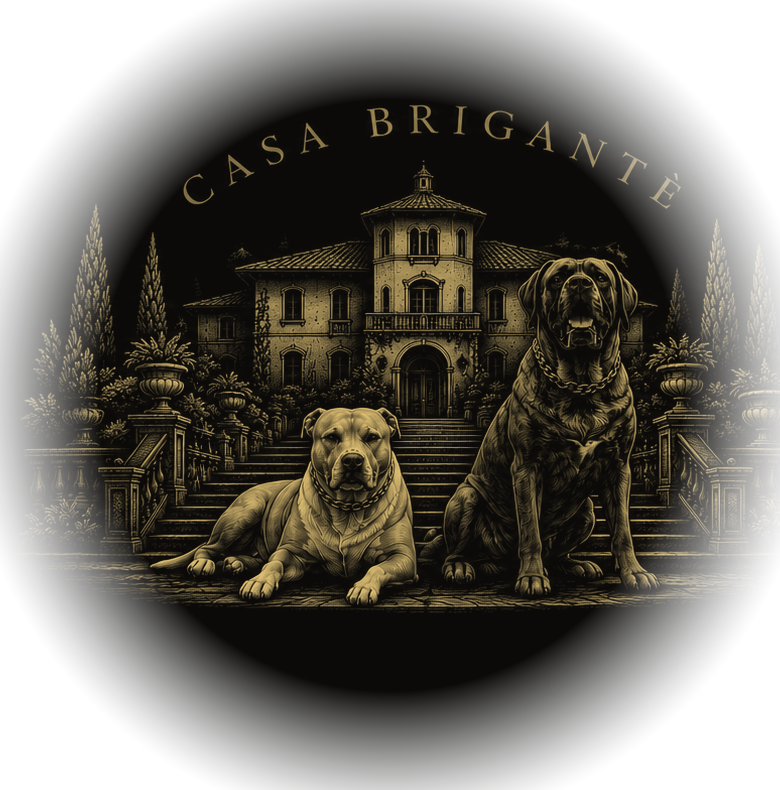
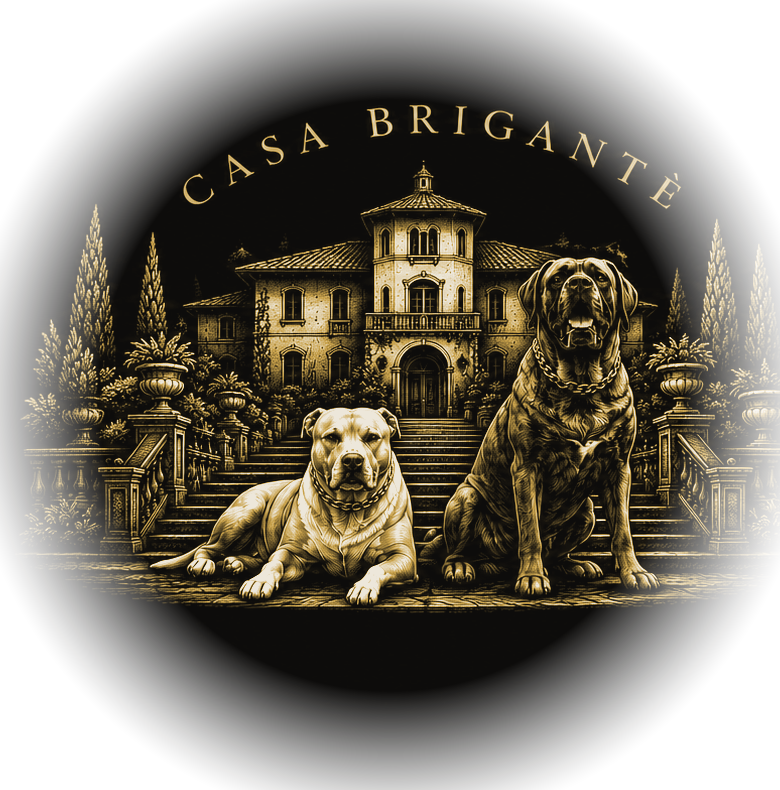
HERO

diff --git a/styles.css b/styles.css
@@ -326,3 +326,18 @@ body{line-height:1.8}
 .header-inner{min-height:132px}
 @media (max-width:64rem){.brand-emblem{height:92px}.header-inner{min-height:110px}}
 @media (max-width:48rem){.brand-emblem{height:78px}.brand{gap:1rem}.header-inner{min-height:96px}}
+
+/* ===== HERO COMPOSITION: FINAL LOCK (scale first, then align to type) ===== */
+.hero-art{
+  width:min(600px,82vw);
+  aspect-ratio:977/604;
+  top:-25px;
+}
+@media (max-width:64rem){.hero-art{width:min(500px,84vw);top:-18px}}
+@media (max-width:48rem){.hero-art{width:min(380px,88vw);top:-12px;opacity:.26}}
+
+/* Header mark: publisher's device scale, house palette */
+.brand-emblem{height:140px}
+.header-inner{min-height:152px}
+@media (max-width:64rem){.brand-emblem{height:104px}.header-inner{min-height:120px}}
+@media (max-width:48rem){.brand-emblem{height:82px}.header-inner{min-height:100px}}

diff --git a/CLAUDE.md b/CLAUDE.md
@@ -1,3 +1,12 @@
+## HERO: FINAL LOCK. DO NOT TOUCH AGAIN.
+Root cause, finally addressed: the artwork was ~11% TOO TALL for the hero. That is why the roof and the guardians could never both land correctly. SCALE FIRST, POSITION SECOND. Never again respond to a hero note by moving the image.
+- CB_Hero_Composition_v1.png rebuilt shorter (sky above the tower and flourish below the paws trimmed), aspect 977:604, then reduced ~9% in CSS.
+- Anchored to the typography, top -25px: roof behind the top of the headline, doorway mid-block, guardians behind the closing line, nothing above the headline or below the paragraph.
+- All four edges dissolved aggressively with a blurred alpha; no rectangular boundary exists.
+- Opacity unchanged. Guardians selectively lifted so their faces read; the rest of the illustration untouched.
+- Header mark enlarged to 140px and recolored to the true house palette (charcoal shadows, #c9a24b gold, ivory highlights).
+- THE HOMEPAGE IS FINISHED. Every remaining hour belongs to Books, Music, Audio Dramas, HAWS, Vault 12, and Plug & Play. Only an actual bug reopens this page.
+
 ## Header 1.1.2
 - Estate icon enlarged ~23% (96px to 118px). It reads as a publisher's mark now, not decoration. Wordmark size UNCHANGED.
 - Spacing between icon and wordmark widened to 1.5rem.